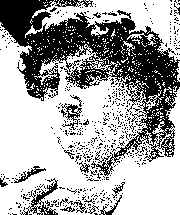
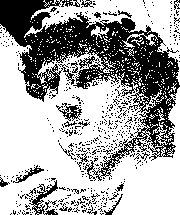
added Ordered Dithering
Added Ordered Dithering with a 2X2 and 3X3 kernel, the best dithering that I have made, keeping the most detail

diff --git a/1BitDithers/OrderedDithering.py b/1BitDithers/OrderedDithering.py
@@ -1,0 +1,54 @@
+#imports
+from Utils import *
+
+#pixel color dither
+def PixelColorDither(screen,image,x,y,xmove,ymove,threshold):
+    if avgPixelGet(image,x,y)>threshold:screen.set_at((x+xmove,y+ymove),"white")
+    else:screen.set_at((x+xmove,y+ymove),"black")
+        
+#Two By Two Ordered Dithering Function
+def TwoByTwoOrderedDithering(screen,image,imageSize):
+    #does the dithering for each 2X2 group of pixels
+    for y in range(0,imageSize[1],2):
+        for x in range(0,imageSize[0],2):
+            #for top left pixel
+            PixelColorDither(screen,image,x,y,0,0,191)
+            #for top right pixel
+            if x+1<imageSize[0]:PixelColorDither(screen,image,x,y,1,0,56)
+            #for bottom left pixel
+            if y+1<imageSize[1]:PixelColorDither(screen,image,x,y,0,1,112)
+            #for bottom right pixel
+            if x+1<imageSize[0] and y+1<imageSize[1]:PixelColorDither(screen,image,x,y,1,1,127)
+        pygame.display.update()
+    print("Two By Two Ordered Dithering Done")
+    #saves image
+    pygame.image.save(screen,"DitheredImages/TwoByTwoOrderedDithering.png")
+
+
+#Two By Two Ordered Dithering Function
+def ThreeByThreeOrderedDithering(screen,image,imageSize):
+    #does the dithering for each 2X2 group of pixels
+    for y in range(0,imageSize[1],3):
+        for x in range(0,imageSize[0],3):
+            #for top left pixel
+            PixelColorDither(screen,image,x,y,0,0,229)
+            #for top middle pixel
+            if x+1<imageSize[0]:PixelColorDither(screen,image,x,y,1,0,102)
+            #for top right
+            if x+2<imageSize[0]:PixelColorDither(screen,image,x,y,2,0,153)
+            #for middle left pixel
+            if y+1<imageSize[1]:PixelColorDither(screen,image,x,y,0,1,76)
+            #for middle pixel
+            if y+1<imageSize[1] and x+1<imageSize[0]:PixelColorDither(screen,image,x,y,1,1,127)
+            #for middle right pixel
+            if y+1<imageSize[1] and x+2<imageSize[0]:PixelColorDither(screen,image,x,y,2,1,25)
+            #for bottom left pixel
+            if y+2<imageSize[1]:PixelColorDither(screen,image,x,y,0,2,178)
+            #for bottom middle pixel
+            if y+2<imageSize[1] and x+1<imageSize[0]:PixelColorDither(screen,image,x,y,1,2,51)
+            #for bottom right pixel
+            if y+2<imageSize[1] and x+2<imageSize[0]:PixelColorDither(screen,image,x,y,2,2,204)
+        pygame.display.update()
+    print("Three By Three Ordered Dithering Done")
+    #saves image
+    pygame.image.save(screen,"DitheredImages/ThreeByThreeOrderedDithering.png")

diff --git a/1BitDithers/Main.py b/1BitDithers/Main.py
@@ -1,6 +1,7 @@
 #imports
 from ThresholdDithering import *
 from RandomDithering import *
+from OrderedDithering import *
 
 #imports image
 image=pygame.image.load("image.png")
@@ -18,6 +19,12 @@ ClampedRandomDithering(screen,image,imageSize)
 
 #True Random Dithering
 TrueRandomDithering(screen,image,imageSize)
+
+#Two by Two Ordered Dithering
+TwoByTwoOrderedDithering(screen,image,imageSize)
+
+#Three by Three
+ThreeByThreeOrderedDithering(screen,image,imageSize)
 
 #closes window after it is done
 os._exit(0)
